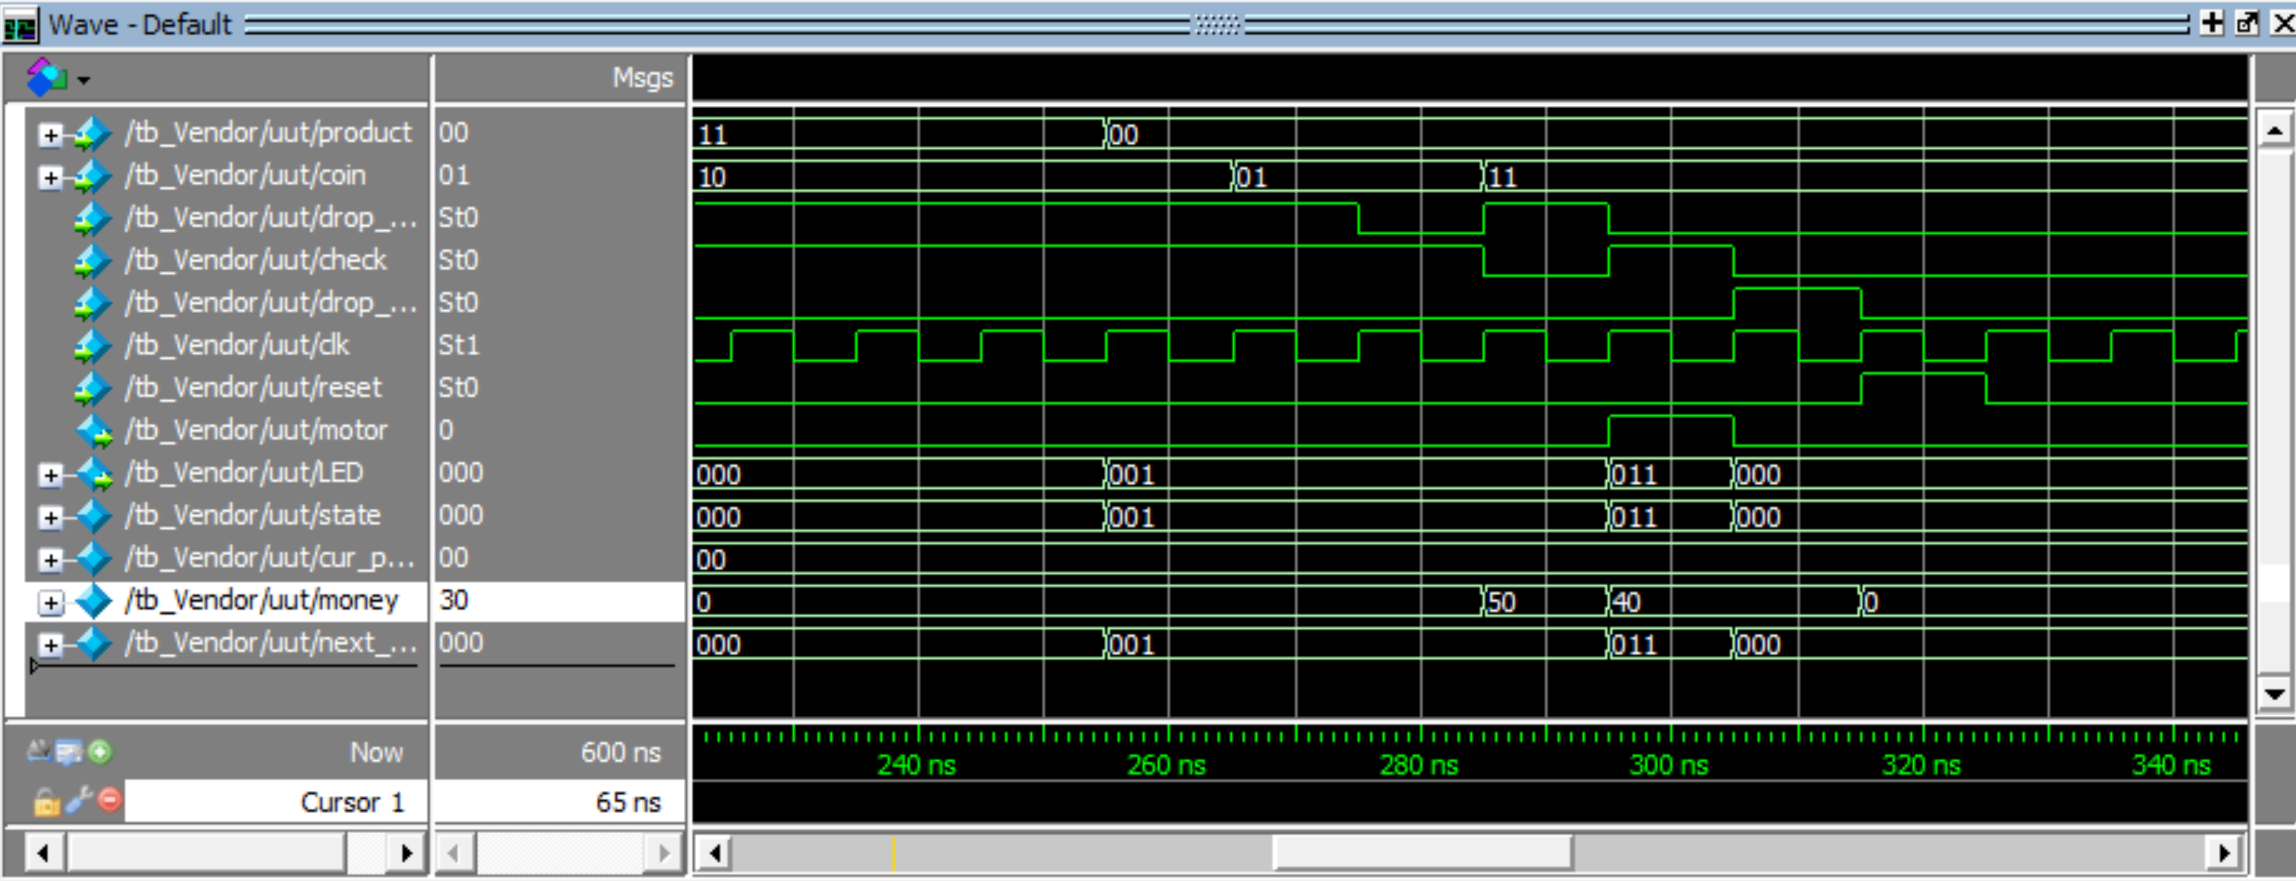
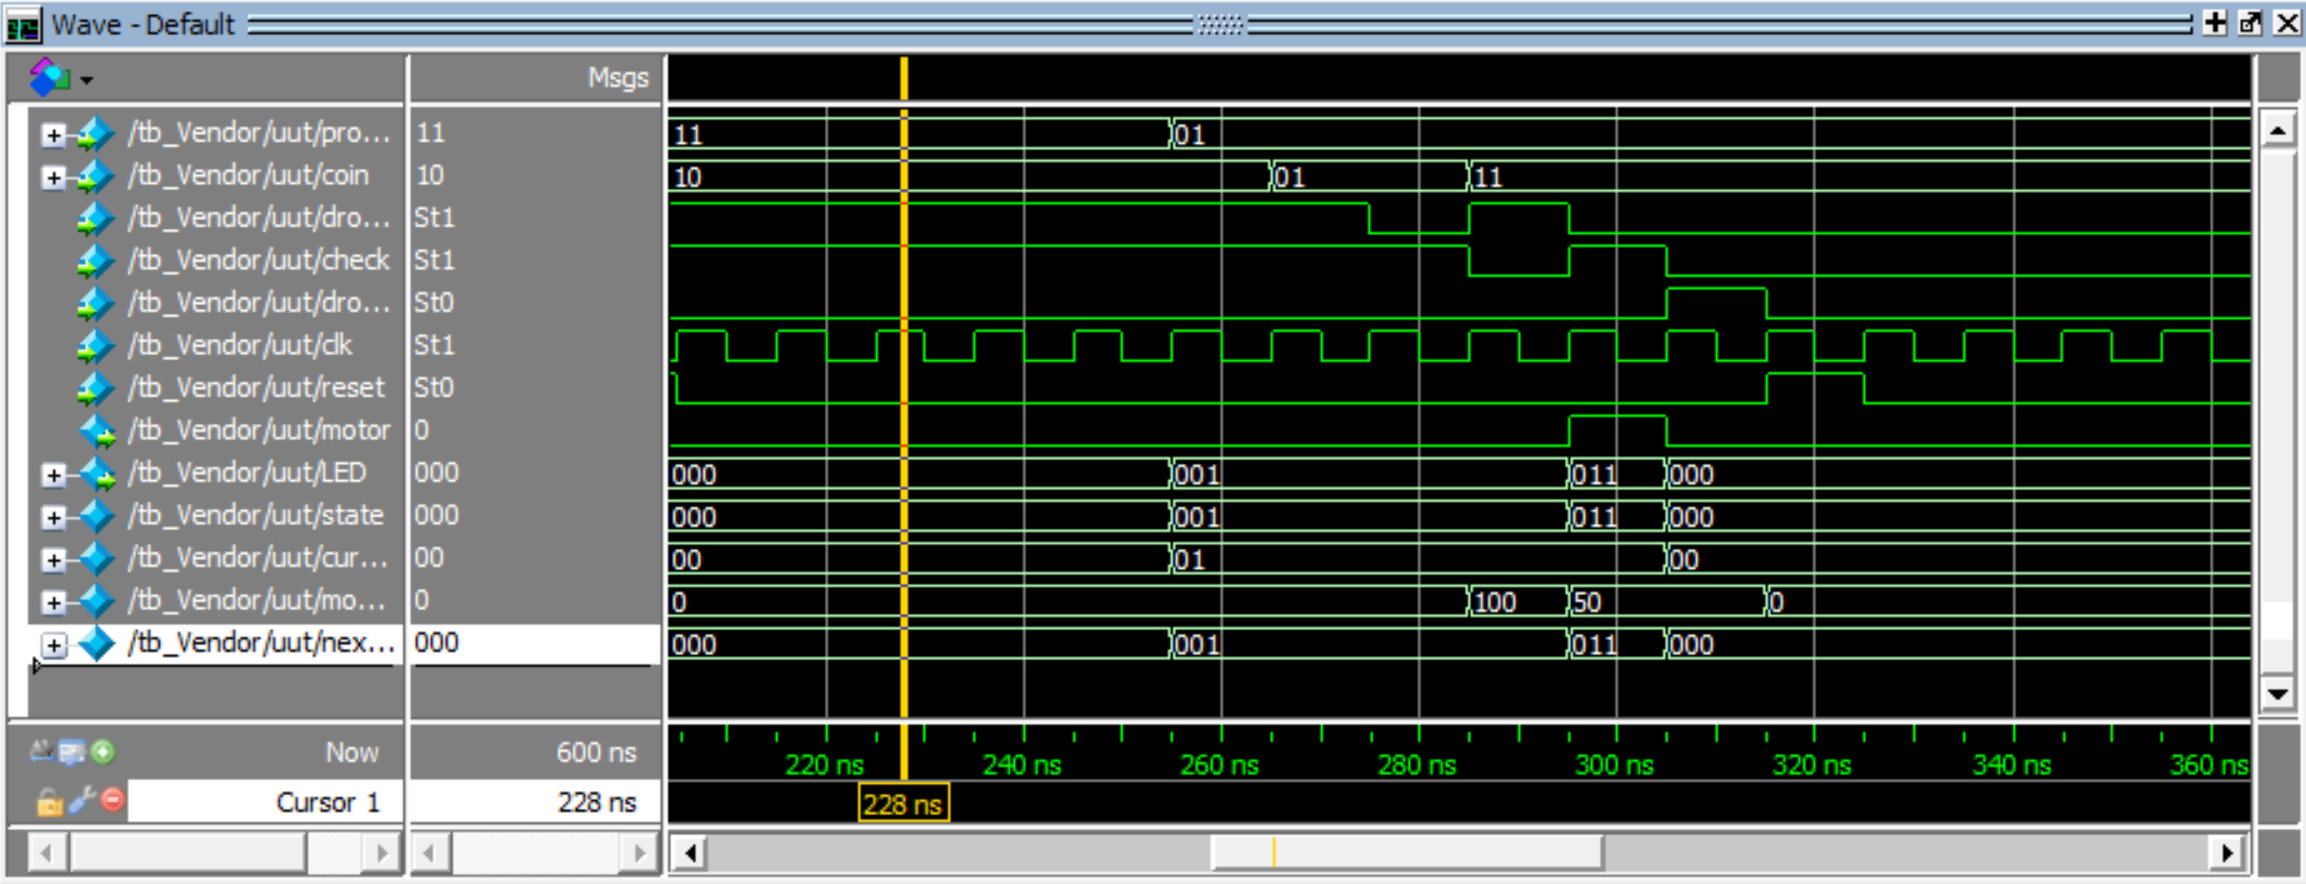
readme completed , more tests created

Changed region(s): [[0.0, 0.0, 1.0, 1.0], [0.5257, 0.0, 0.5566, 0.0306]]

diff --git a/README.md b/README.md
@@ -61,6 +61,7 @@ reg [2:0] next_state;
 | 2       	| 100   	|
 | 3       	| 150   	|
 
+
 | coin 	| price 	|
 |------	|-------	|
 | 0    	| 10    	|
@@ -70,7 +71,7 @@ reg [2:0] next_state;
 
 
 ### description:
-it was used Behavioral coding style. This code has some always block and each of them sensetive with a different signal and do a certain job.for example:
+It used a Behavioral coding style. This code has some always blocks and each of them is sensitive to a different signal and does a certain job. For example:
 ```verilog
 always @(posedge drop_product) begin
     if (state == 3'b011) begin
@@ -80,9 +81,75 @@ always @(posedge drop_product) begin
         cur_product = 0; 
     end
 ```
-in this always block in check if machine is in state `deliver` and `drop_product` signal changes from 0 to 1 it turns the motor off and the LED to 0 and reset the `cur_product` and put `next_state` to 0.
+in this always block in ts checks if the machine is in the state `deliver` and `drop_product` signal changes from 0 to 1 it turns the motor off and the LED to 0 and resets the `cur_product` and puts `next_state` to 0.
 
+or in this part
+```verilog
+always @(product) begin
+    if (state == 3'b000) begin
+        cur_product <= product;
+        next_state <= 3'b001;
+        LED <= 1;
+        motor <= 0;
+    end
+end
+```
+when `product` signal changes it runs this always, if the machine is in the `choose product` state machine changes `cur_product` and `next_state` so the machine goes to the `insert coin` state and is ready for inserting coins and LED = 1.
 
 ## Test:
+some tests were done on the code you can see all of them in [test bench](vendor_machine_tb.v), I explain 4 of them here, the rest of the tests are like these ones just the inputs vary in them.
 ### test 1:
 ![test 1 image](shot/test1.png)
+at first the machine resets. LED = 000
+
+at time t=10 the `product` signal changes so the `next state` and after it the `state` changes to 001, LED = 001
+
+at time t=20 the `drop_coin` changes to 1 so the machine reads the `coin` signal and increases the money to 20.
+
+at time t=35 the `drop_coin` again changes to 1 so the money increases to 40.
+
+at time t=45 the `check` signal changes to 1 so the machine goes to the `evaluate` state. Because the money is greater than the product price, the money decreases to 30 and the machine goes to the `deliver` state, and the motor turns on. LED = 011
+
+at time t=55 the `drop_product` signal changes to 1 so the motor turns off and the machine goes to the `choose products` state. LED =000
+
+### test 2:
+![test 2 image](shot/test2.png)
+at time t=115 `product` signal changes to 11 to the machine goes to the `insert coin` state.
+
+at time t = 125 the `drop_cion` signal changes to 1 so the machine reads the `coin` signal and increases the money to 80(the user has 30 cents from the last payment).
+
+at time t=135 the `check` signal changes to 1 machine goes to the `evaluate` state but the user money is less than the price of the product so the machine goes to the `error` state and LED = 100.
+
+at time t = 155 the `check` signal changes to 1 machine goes to the `insert coin` state again and the machine waits for the user to input more coins.
+
+at time t=165 the `drop_coin` signal changes to 1 the machine reads the `coin` signal and the money increases to 180.
+at time t=175 the `check` changes to 1 but this time user has enough money so the machine goes to the `deliver` state and the motor turns on.
+
+at time t= 185 the `drop_product` signal changes to 1 so the machine goes to the `choose product` state and turns the motor off.
+
+### test 3:
+![test 3 image](shot/test3.png)
+at first the machine resets. LED = 000
+
+at time t=255 `product` signal changes so the `next state` and after it the `state` changes to 001, LED = 001
+
+at time t=265 the `coin` signal changes but because the `drop_coin` signal doesn't change to 1, it doesn't increase the `coin` to the user money.
+
+at time t=285 `drop_coin` again changes to 1 so the money increases to 100.
+
+at time t=295 `check` signal changes to 1 so the machine goes to the `evaluate` state. Because the money is greater than the product price, the money decreases to 50 and the machine goes to the `deliver` state, and the motor turns on. LED = 011
+
+at time t=305 `drop_product` signal changes to 1 so the motor turns off and the machine goes to the `choose products` state. LED =00
+### test 4:
+![test 4 image](shot/test4.png)
+at first the machine resets. LED = 000
+
+at time t=375 `product` signal changes so the `next state` and after it the `state` changes to 001, LED = 001
+
+at time t=385 `drop_coin` again changes to 1 so the money increases to 50.
+
+at time t=400 `drop_coin` again changes to 1 so the money increases to 100.
+
+at time t=410 `check` signal changes to 1 so the machine goes to the `evaulate` state. Because the money is greater than the product price, the money decreases to 0 and the machine goes to the `deliver` state, and the motor turns on. LED = 011
+
+at time t=420 `drop_product` signal changes to 1 so the motors turns off and the machine goes to the `choose products` state. LED =000.
